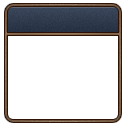
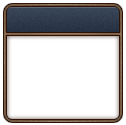
Polishing

Changed region(s): [[0.0238, 0.024, 0.9762, 0.984]]

diff --git a/css/web/_menu_box.css b/css/web/_menu_box.css
@@ -21,6 +21,7 @@
     min-width: 95px !important;
 	min-height: 50px !important;    
 	border-image-source: url(../images/hud/window-menu.png);
+	border-radius: 15px;
 }
 
 #menu_box.closed {
@@ -79,7 +80,7 @@
 	display: inline-block;
 	width: 45px;
 	height: 45px;
-	background: url('../images/hud/menu-sm.png') -122px -90px no-repeat;
+	background: url('../images/hud/menu-sm.png') -126px -64px no-repeat;
 }
 
 .hud-btn span.hud-counter {

diff --git a/js/web/eventhandler/css/eventhandler.css b/js/web/eventhandler/css/eventhandler.css
@@ -72,6 +72,14 @@
 	position: relative;
 }
 
+#moppelhelper #moppelhelperBody table.foe-table tr th {
+    text-align: center;
+}
+
+#moppelhelper #moppelhelperBody table.foe-table tr th::nth-child(3) {
+    text-align: left;
+}
+
 #moppelhelper #moppelhelperBody .events-sprite-50.sm {
     text-align: center;
 	display: inline-block;
